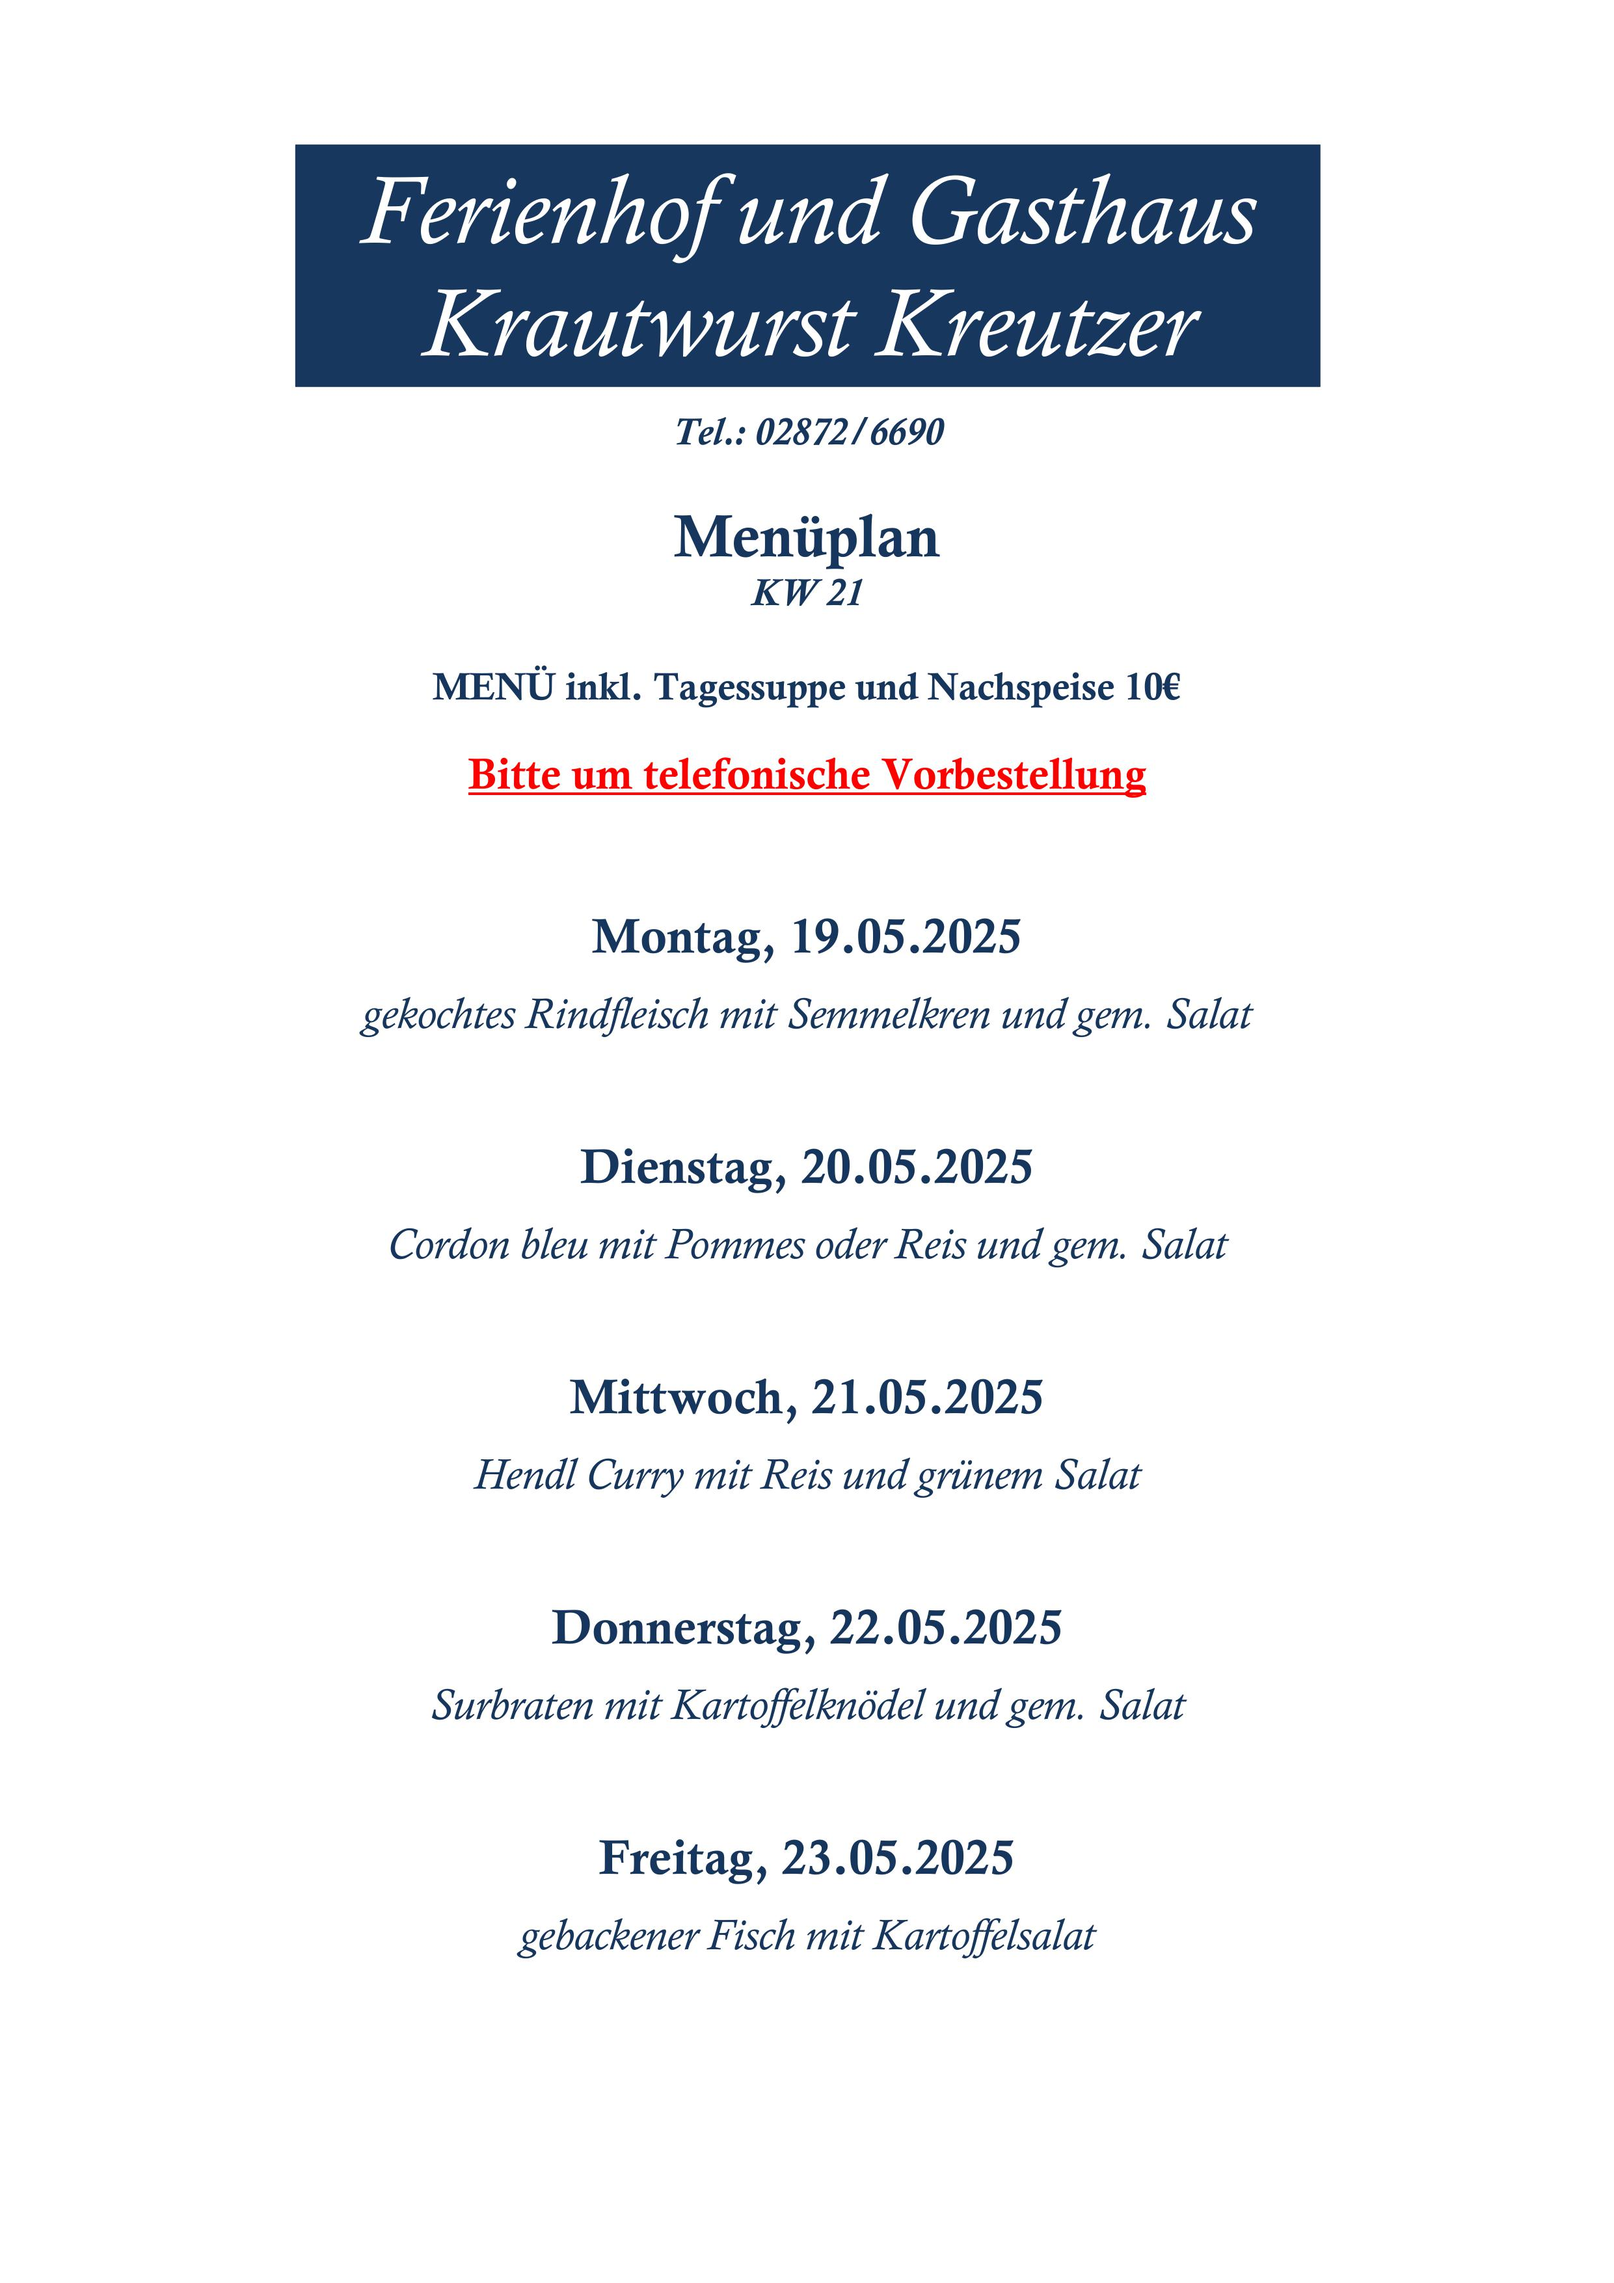
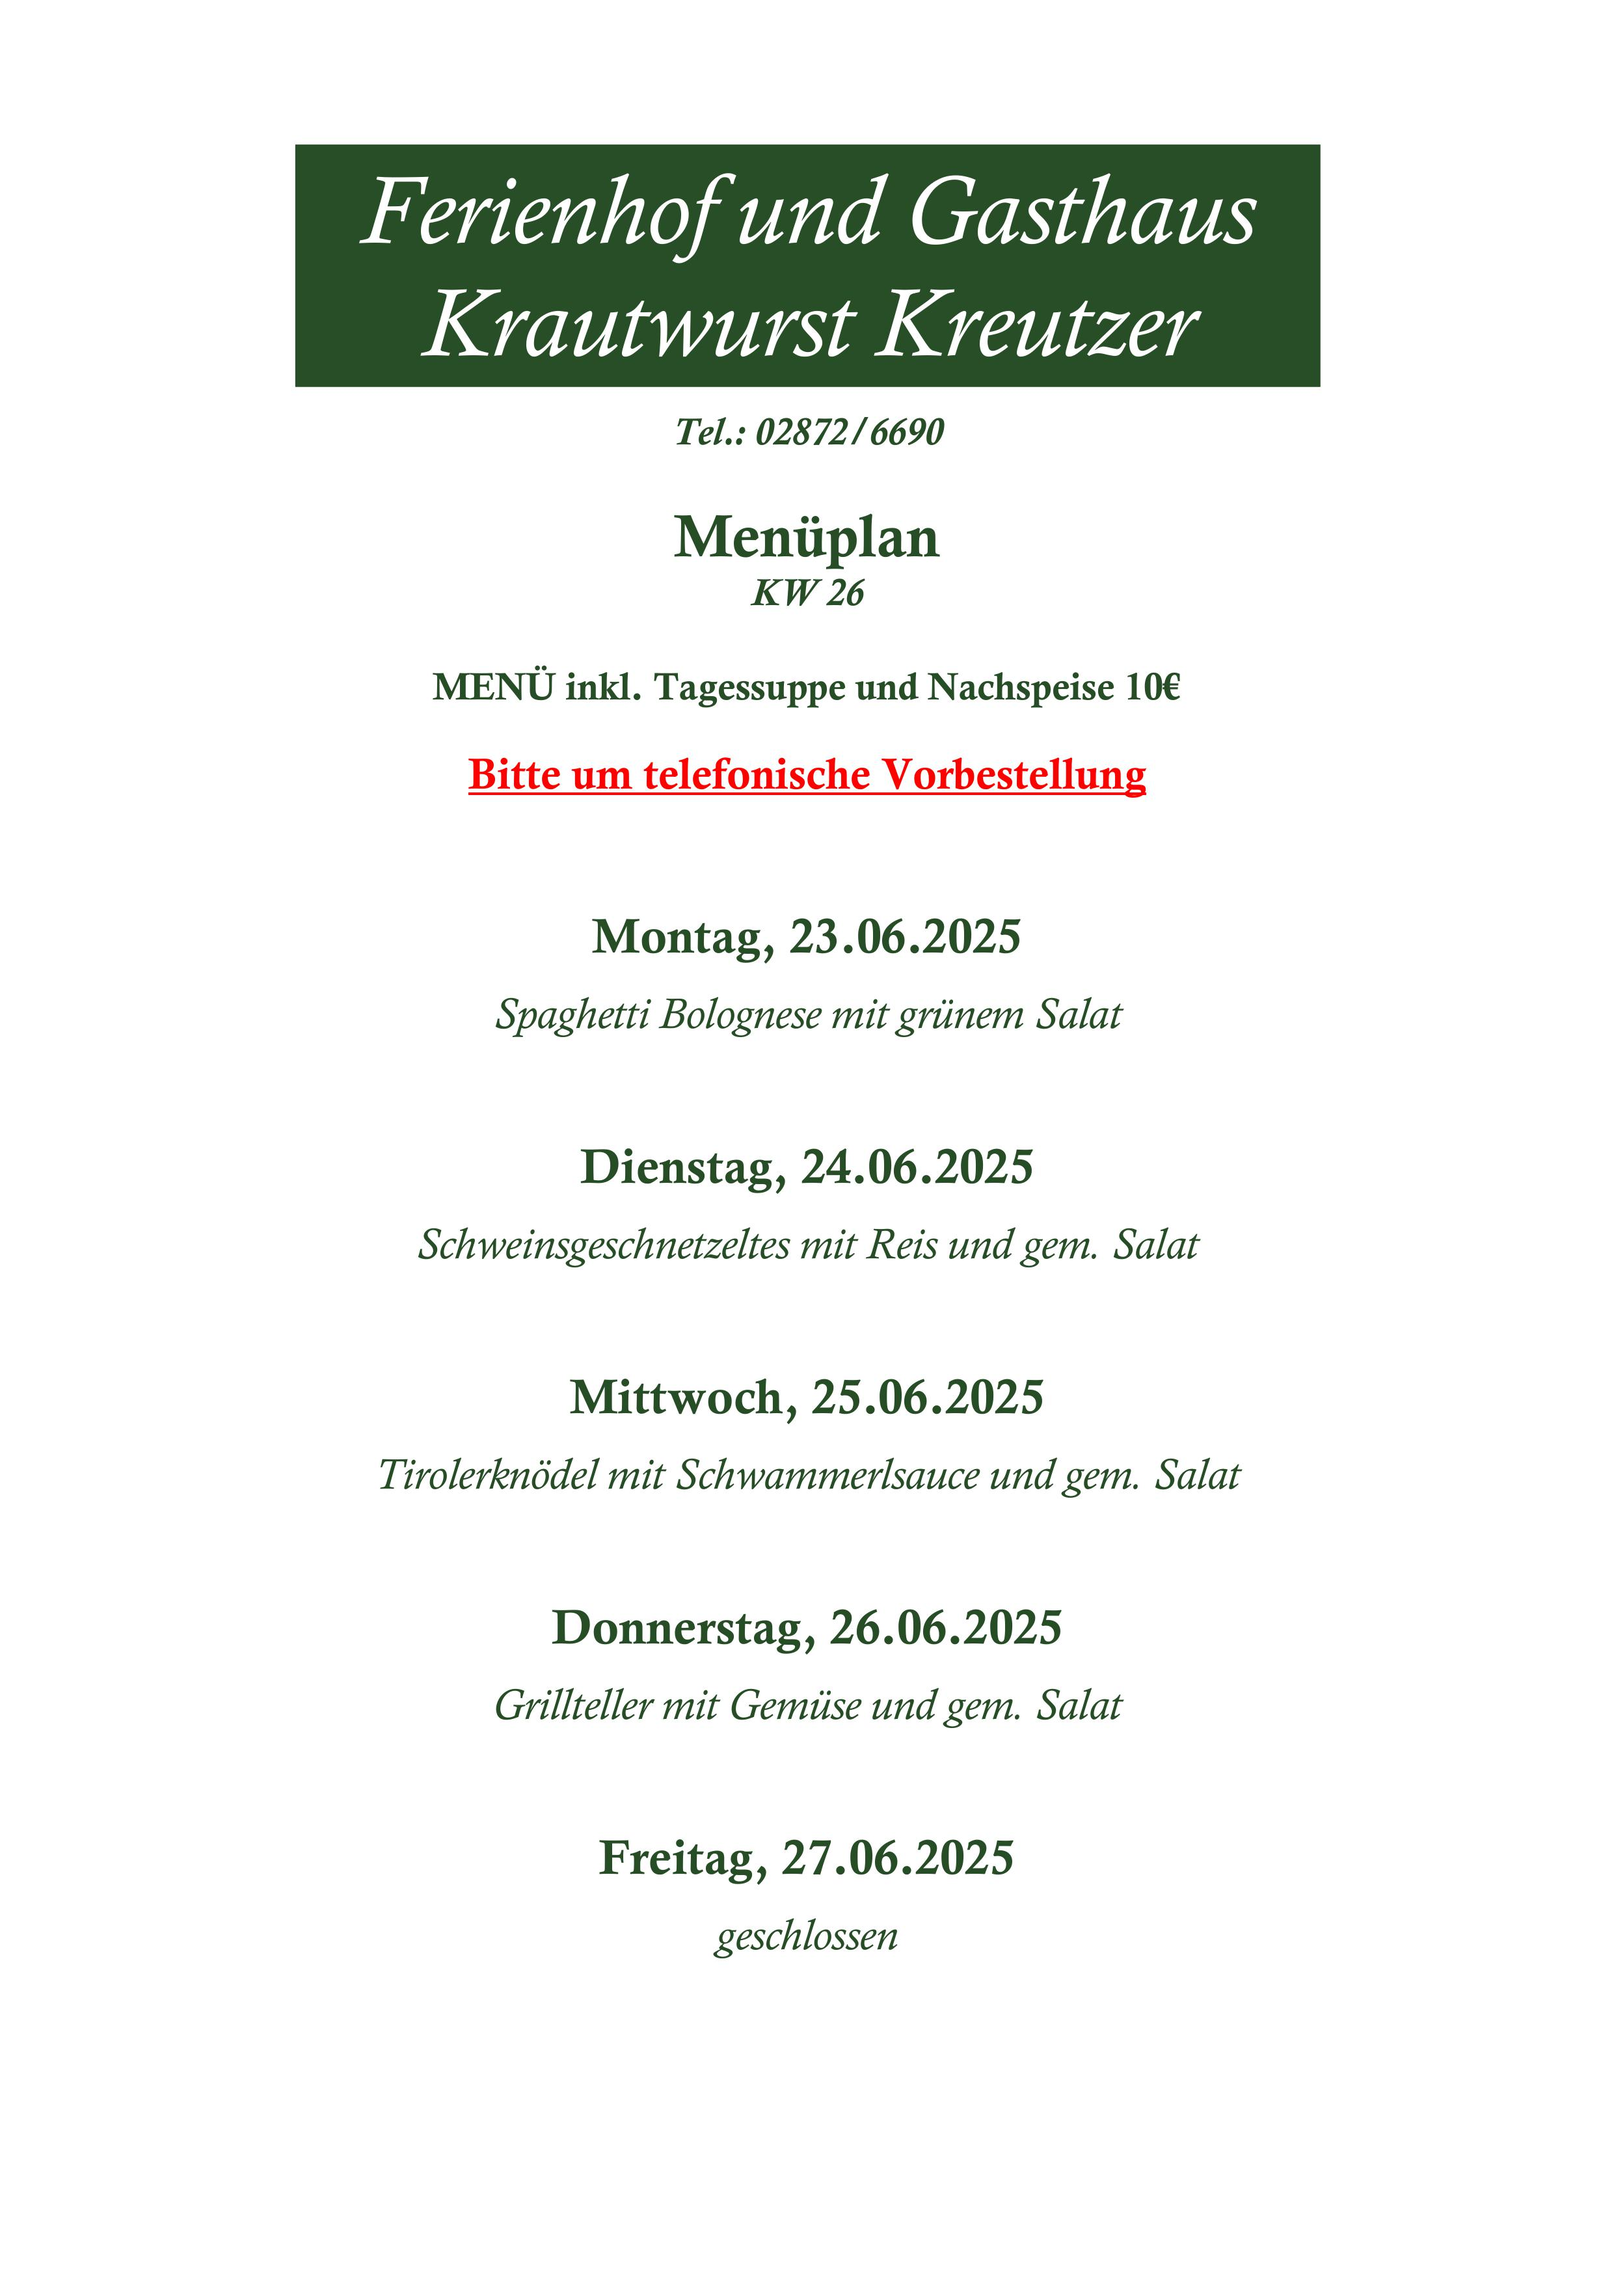
Menucard change

diff --git a/index.html b/index.html
@@ -75,13 +75,12 @@
                 <div class="container">
                     <div style="text-align: center; margin-bottom: 50px;">
                         <h2 style="font-size: 2.5rem; color: #2d5a2d; margin-bottom: 20px;">Unser aktuelles Menü</h2>
-                        <div class="in-progress-container">
-                            <div class="in-progress-content">
-                                <div class="progress-icon">🔄</div>
-                                <h3>In Bearbeitung</h3>
-                                <p>Unsere Menükarte wird aktuell überarbeitet.<br>Schauen Sie bald wieder vorbei!</p>
-                            </div>
-                        </div>
+                        <p style="font-size: 1.2rem; color: #666;">Genießen Sie unsere köstlichen, regionalen Spezialitäten</p>
+                    </div>
+
+                    <div class="menu-card-image" style="text-align: center; margin-bottom: 50px;">
+                        <img src="images/menukarte.jpg" alt="Unsere aktuelle Menükarte" style="max-width: 800px; max-height: 1000px; width: 100%; height: auto; border-radius: 15px; box-shadow: 0 5px 20px rgba(0,0,0,0.1); object-fit: contain;">
+                        <p style="margin-top: 15px; font-style: italic; color: #666;">Klicken Sie auf das Bild, um es zu vergrößern</p>
                     </div>
                 </div>
             </section>
